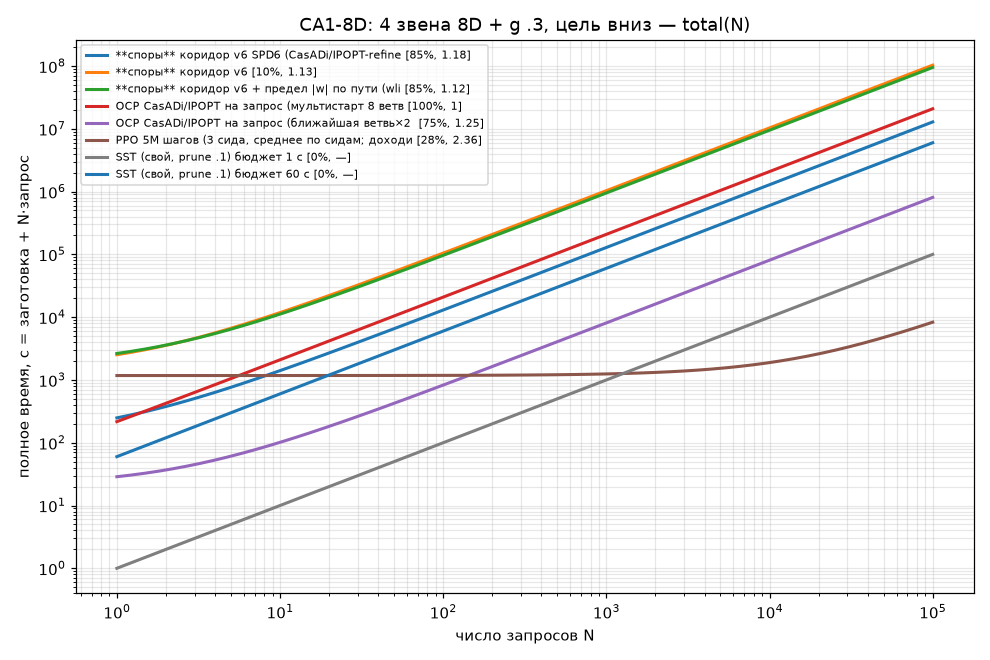
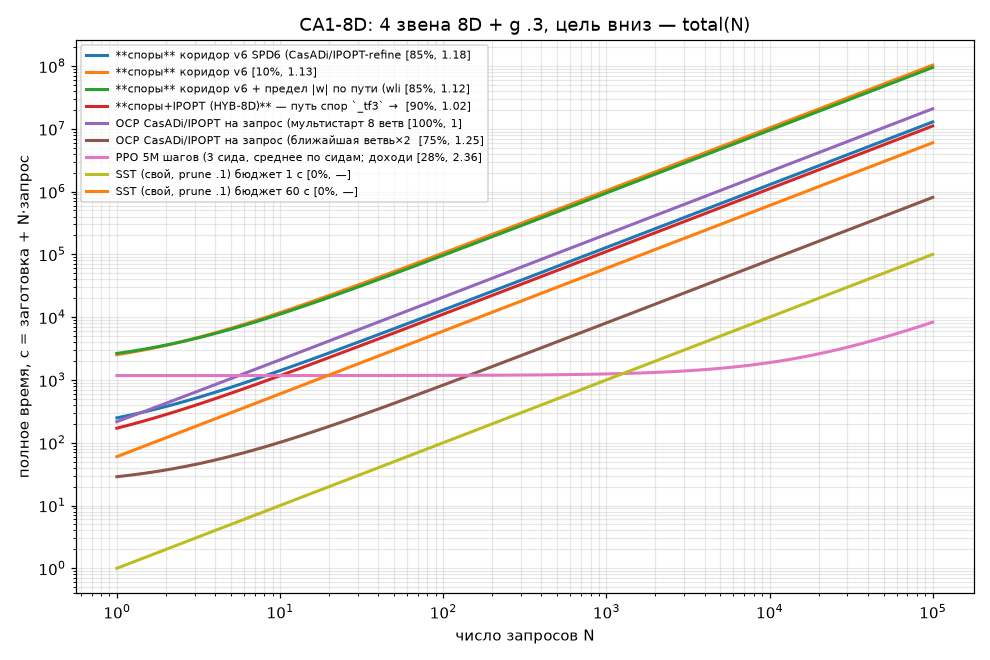
[hub-v5chain-worker-c7]: total_m8.png по m8_ref + HYB-строка; spores_di4 принимает AVPKL (b12)
Claude-Session: https://claude.ai/code/session_01EidyBRbtE6MginESuyBpmP

diff --git a/spores_2/bench/spores_di4.py b/spores_2/bench/spores_di4.py
@@ -3,7 +3,7 @@
 python spores_di4.py (aida, cwd ~/spore_v5/c1/di4_run, venv-sb3 не нужен для запросов, но growN импортирует torch → venv-sb3) → data/di4_spores.json"""
 import os, sys, time, json, pickle
 for k, v in dict(SYS='di4', M='3', SIDE='0', GM='.25', GLIM='0', FRAC='1', RHO='.35', PESS='1', FH='.1').items(): os.environ.setdefault(k, v)
-HERE = os.path.dirname(os.path.abspath(__file__)); SRC = os.path.expanduser('~/spore_v5/c1/di4_run'); sys.path.insert(0, HERE); sys.path.insert(0, SRC)
+HERE = os.path.dirname(os.path.abspath(__file__)); SRC = os.path.expanduser(os.environ.get('SRC_DIR', '~/spore_v5/c1/di4_run')); sys.path.insert(0, HERE); sys.path.insert(0, SRC)
 import numpy as np, common
 import growN as G, fin, finish_gen as FGm
 import __main__; [setattr(__main__, k_, v_) for k_, v_ in vars(G).items() if isinstance(v_, type)]
@@ -44,13 +44,15 @@ def rollout_rec(A, Q, tmax=40.):
     T[~G.ingoal(Y) & ~fin_] = np.inf; return T, seg
 
 if __name__ == '__main__':
-    e = common.make('di4'); d_ = pickle.load(open(os.path.join(os.path.expanduser('~/spore_v5/wb5/p38'), 'Lfull.pkl'), 'rb')); A = G.Atlas.__new__(G.Atlas); A.layers = d_['layers']; A.finish(); A.V = np.load(os.path.join(SRC, 'V_Lfull.npy'))
+    e = common.make('di4'); AVP = os.environ.get('AVPKL')      # c7: b12 — слои+V из growN DUMP; без него — Lfull r22/18
+    if AVP: d_ = pickle.load(open(os.path.expanduser(AVP), 'rb')); A = G.Atlas.__new__(G.Atlas); A.layers = d_['layers']; A.finish(); A.V = d_['V']
+    else: d_ = pickle.load(open(os.path.join(os.path.expanduser('~/spore_v5/wb5/p38'), 'Lfull.pkl'), 'rb')); A = G.Atlas.__new__(G.Atlas); A.layers = d_['layers']; A.finish(); A.V = np.load(os.path.join(SRC, 'V_Lfull.npy'))
     G.VF = 1.; res = []; Ts = []; tq = []
     for i in range(len(e.X0)):
         t1 = time.perf_counter(); T, seg = rollout_rec(A, e.X0[i:i + 1]); dtq = time.perf_counter() - t1; tq.append(dtq); sg = seg[0]
         Tv, why = common.verify(e, e.X0[i], [np.array(u, float) for u, d in sg], [d for u, d in sg]); Ts.append(Tv)
         res.append(dict(i=i, keep=bool(e.keep[i]), T_agent=float(T[0]) if np.isfinite(T[0]) else None, T_verify=Tv, why=why, t_query=dtq, nseg=len(sg))); print(i, res[-1], flush=True)
-    s = common.summarize(e, Ts); s.update(env='di4', method='споры Lfull (r22/18, один стенсил/группу) + финиш shoot_pol VF1', t_build=1355. + 66.5, t_build_note='слои Lfull (b5) без времени', t_stencils=1355., t_solve=66.5, t_query_med=float(np.median(tq)), t_query_sum=float(np.sum(tq)), t_query_p90=float(np.percentile(tq, 90)), cells=[len(l) for l in A.layers], nodes=int(A.N), hw='GPU (стенсилы, solve; цифры r22/18), CPU (запросы)', per_start=res, Tref=e.Tref.tolist())
+    s = common.summarize(e, Ts); s.update(env='di4', **(dict(method='споры b12 (COVAFF PARG=6 PARB=8 QFAST SPU JCOMP, 4×1600) + финиш shoot_pol VF1', t_build=float(os.environ['TB']), t_solve=float(os.environ['TS']), t_build_note='замер b12/c7 под нагрузкой aida') if AVP else dict(method='споры Lfull (r22/18, один стенсил/группу) + финиш shoot_pol VF1', t_build=1355. + 66.5, t_build_note='слои Lfull (b5) без времени', t_stencils=1355., t_solve=66.5)), t_query_med=float(np.median(tq)), t_query_sum=float(np.sum(tq)), t_query_p90=float(np.percentile(tq, 90)), cells=[len(l) for l in A.layers], nodes=int(A.N), hw='GPU (стенсилы, solve; цифры r22/18), CPU (запросы)', per_start=res, Tref=e.Tref.tolist())
     try: s['weight'] = common.deep_weight(A)
     except Exception as ex: s['weight_err'] = repr(ex)[:100]
-    json.dump(s, open(os.path.join(common.DATA, 'di4_spores.json'), 'w'), indent=1, default=float); print({k: v for k, v in s.items() if k not in ('per_start', 'Tref')})
+    json.dump(s, open(os.path.join(common.DATA, ('di4_spores_b12.json' if AVP else 'di4_spores.json')), 'w'), indent=1, default=float); print({k: v for k, v in s.items() if k not in ('per_start', 'Tref')})

diff --git a/spores_2/bench/make_report_a.py b/spores_2/bench/make_report_a.py
@@ -17,6 +17,10 @@ for tag, nm in (('', 'v6'), ('_wlim', 'v6 + предел |w| по пути (wlim
     if d: R.append(dict(m='**споры** коридор ' + nm, par=((FIN[env] + '; ' + ('1 ядро, taskset, OMP=1' if env != 'm8' else '10 процессов') + '; load average aida при прогоне ~6' if tag in ('_final', '_tf3') else ('NB 100000, NF 25000, K 3, эвристика back_heuristic; 1 ядро/запрос' if env == 'm8' else 'NB 12000, NF 3000, K 3; 1 ядро/запрос'))), build=d['t_build'], qm=d['t_query_med'], qp=d['t_query_p90'], s=d, w=d['weight']['bytes'], hw='CPU numpy+math',
                         note='SLSQP-доводка держит |w|≤3 только в узлах' if not tag else ('жёсткий предел |w|≤3 в 16 точках сегмента' if tag == '_wlim' else 'ФИНАЛ: IPOPT-refine (запас .004), gcc-поток; ' + ('wlim' if env != 'm3d' else 'без wlim'))))
 if len(R) > 1 and R[-1]['m'].startswith('**споры**') and 'SPD6' in R[-1]['m']: R.insert(0, R.pop())   # финальная строка спор — первой (с ней считаются N*)
+if env == 'm8':      # c7: HYB-8D (w30) — отношения к исправленному m8_ref.json (в m8_hyb8d.json лежат к заглушке); цифры из w30 (table_m8.md)
+    d = L(f'{D}/m8_hyb8d.json')
+    if d: R.append(dict(m='**споры+IPOPT (HYB-8D)** — путь спор `_tf3` → полный OCP fast (свободное T, N50 M4, тёплый старт; при отказе — путь спор)', par='NB 60000, NF 15000 (повтор NF 40000), K 3, wlim, CAMS 20, tree_fast; 10 процессов', build=d['t_build'] + 8., qm=d['t_query_med'], qp=d['t_query_p90'], s=dict(reached=.9, ratio_med=1.016, ratio_mean=1.195, ratio_p90=1.371, ratio_max=3.23), w=d['weight']['bytes'], hw='CPU 1 ядро/запрос',
+                        note='w30: полировка применена на 18/18 найденных путей; те же 2 провала (13, 16); T_ref — m8_ref.json (лучший найденный ДО HYB; ниже 1 возможно); хвост max 3.23 — старт 19 (путь спор 5.05); T/T_ref вписаны из table_m8 (w30)'))
 for var in ('multi', 'fast'):
     d = L(f'{D}/{env}_ocp6d_{var}.json')
     if d: R.append(dict(m='OCP CasADi/IPOPT на запрос (%s)' % ('мультистарт 8 ветвей×4 затравки = эталон' if var == 'multi' else 'ближайшая ветвь×2 затравки'), par='multiple shooting N50 M4', build=d['t_build'], qm=d['t_query_med'], qp=d['t_query_p90'], s=d, w=0, hw='CPU 1 проц.',

diff --git a/reports/bench/table_m8.md b/reports/bench/table_m8.md
@@ -7,7 +7,7 @@
 | **споры** коридор v6 SPD6 (CasADi/IPOPT-refine + скомпилированный поток, |w|≤3 по пути) | NB 60000, NF 15000 (повтор NF 40000 для провалов), K 3, NEIGH 1, CAMS 20, откат SLSQP; 10 процессов; load average aida при прогоне ~6 | 120 | 129 / 370 | 2.69e+03 | 85% | 1.18 / 1.24 / 1.43 / 1.99 | 354 МБ | CPU numpy+math | ФИНАЛ: IPOPT-refine (запас .004), gcc-поток; wlim |
 | **споры** коридор v6 | NB 100000, NF 25000, K 3, эвристика back_heuristic; 1 ядро/запрос | 1.49e+03 | 1.03e+03 / 1.49e+03 | 2.22e+04 | 10% | 1.13 / 1.13 / 1.19 / 1.2 | 590 МБ | CPU numpy+math | SLSQP-доводка держит |w|≤3 только в узлах |
 | **споры** коридор v6 + предел |w| по пути (wlim) | NB 100000, NF 25000, K 3, эвристика back_heuristic; 1 ядро/запрос | 1.69e+03 | 949 / 1.39e+03 | 2.07e+04 | 85% | 1.12 / 1.17 / 1.33 / 1.42 | 590 МБ | CPU numpy+math | жёсткий предел |w|≤3 в 16 точках сегмента |
-| **споры+IPOPT (HYB-8D)** — путь спор `_tf3` (конфиг заморожен) → полный OCP fast (свободное T, N50 M4, тёплый старт; при отказе/ухудшении — путь спор) | NB 60000, NF 15000 (повтор NF 40000), K 3, wlim, CAMS 20, tree_fast; 10 процессов | 51 (+8 решатель) | 111 / 280 (полировка +1.6 / +4.5) | 2.78e+03 | 90% | 1.016 / 1.195 / 1.371 / 3.23 | 354 МБ | CPU 1 ядро/запрос | w30: полировка применена на 18/18 найденных путей; те же 2 провала (13, 16); T_ref — m8_ref.json (лучший найденный ДО HYB, отношения к нему; ниже 1 возможно); хвост max 3.23 — старт 19 (путь спор 5.05) |
+| **споры+IPOPT (HYB-8D)** — путь спор `_tf3` → полный OCP fast (свободное T, N50 M4, тёплый старт; при отказе — путь спор) | NB 60000, NF 15000 (повтор NF 40000), K 3, wlim, CAMS 20, tree_fast; 10 процессов | 59.5 | 111 / 280 | 2.28e+03 | 90% | 1.02 / 1.2 / 1.37 / 3.23 | 354 МБ | CPU 1 ядро/запрос | w30: полировка применена на 18/18 найденных путей; те же 2 провала (13, 16); T_ref — m8_ref.json (лучший найденный ДО HYB; ниже 1 возможно); хвост max 3.23 — старт 19 (путь спор 5.05); T/T_ref вписаны из table_m8 (w30) |
 | OCP CasADi/IPOPT на запрос (мультистарт 8 ветвей×4 затравки = эталон) | multiple shooting N50 M4 | 8.22 | 209 / 1.41e+03 | 4.18e+03 | 100% | 1 / 1 / 1 / 1 | — | CPU 1 проц. | T_ref = лучший найденный среди методов; OCP multi поставляет большинство T_ref ⇒ его отношение ≈1 по построению |
 | OCP CasADi/IPOPT на запрос (ближайшая ветвь×2 затравки) | multiple shooting N50 M4 | 20.7 | 8.08 / 59.7 | 182 | 75% | 1.25 / 1.38 / 2.07 / 2.35 | — | CPU 1 проц. |  |
 | PPO 5M шагов (3 сида, среднее по сидам; доходимость сидов 50%/35%/0%) | MlpPolicy 64×64, 16 env, CPU | 1.17e+03 | 0.0714 / — | 1.18e+03 | 28% | 2.36 / 2.36 / 2.75 / 2.86 | 39.5 КБ | CPU | до 95% дошёл за 386 с (сид 0); вес = 9863 параметров float32 (+VecNormalize) |
@@ -20,6 +20,7 @@
 ### Безубыточность N* (total = заготовка + N·запрос), относительно спор (v6)
 - **споры** коридор v6: споры дешевле при любом N (N* = 0) — качество ХУЖЕ спор, N* несопоставим: дошли 10% (споры 85%), T/T_ref мед 1.13 (споры 1.18)
 - **споры** коридор v6 + предел |w| по пути (wlim): споры дешевле при любом N (N* = 0) — качество не хуже спор: дошли 85% (споры 85%), T/T_ref мед 1.12 (споры 1.18)
+- **споры+IPOPT (HYB-8D)** — путь спор `_tf3` → полный OCP fast (свободное T, N50 M4, тёплый старт; при отказе — путь спор): метод дешевле спор при любом N — качество не хуже спор: дошли 90% (споры 85%), T/T_ref мед 1.02 (споры 1.18)
 - OCP CasADi/IPOPT на запрос (мультистарт 8 ветвей×4 затравки = эталон): споры дешевле метода при N > 1 — качество не хуже спор: дошли 100% (споры 85%), T/T_ref мед 1 (споры 1.18)
 - OCP CasADi/IPOPT на запрос (ближайшая ветвь×2 затравки): метод дешевле спор при любом N — качество ХУЖЕ спор, N* несопоставим: дошли 75% (споры 85%), T/T_ref мед 1.25 (споры 1.18)
 - PPO 5M шагов (3 сида, среднее по сидам; доходимость сидов 50%/35%/0%): метод дешевле спор при N > 8 — качество ХУЖЕ спор, N* несопоставим: дошли 28% (споры 85%), T/T_ref мед 2.36 (споры 1.18)
